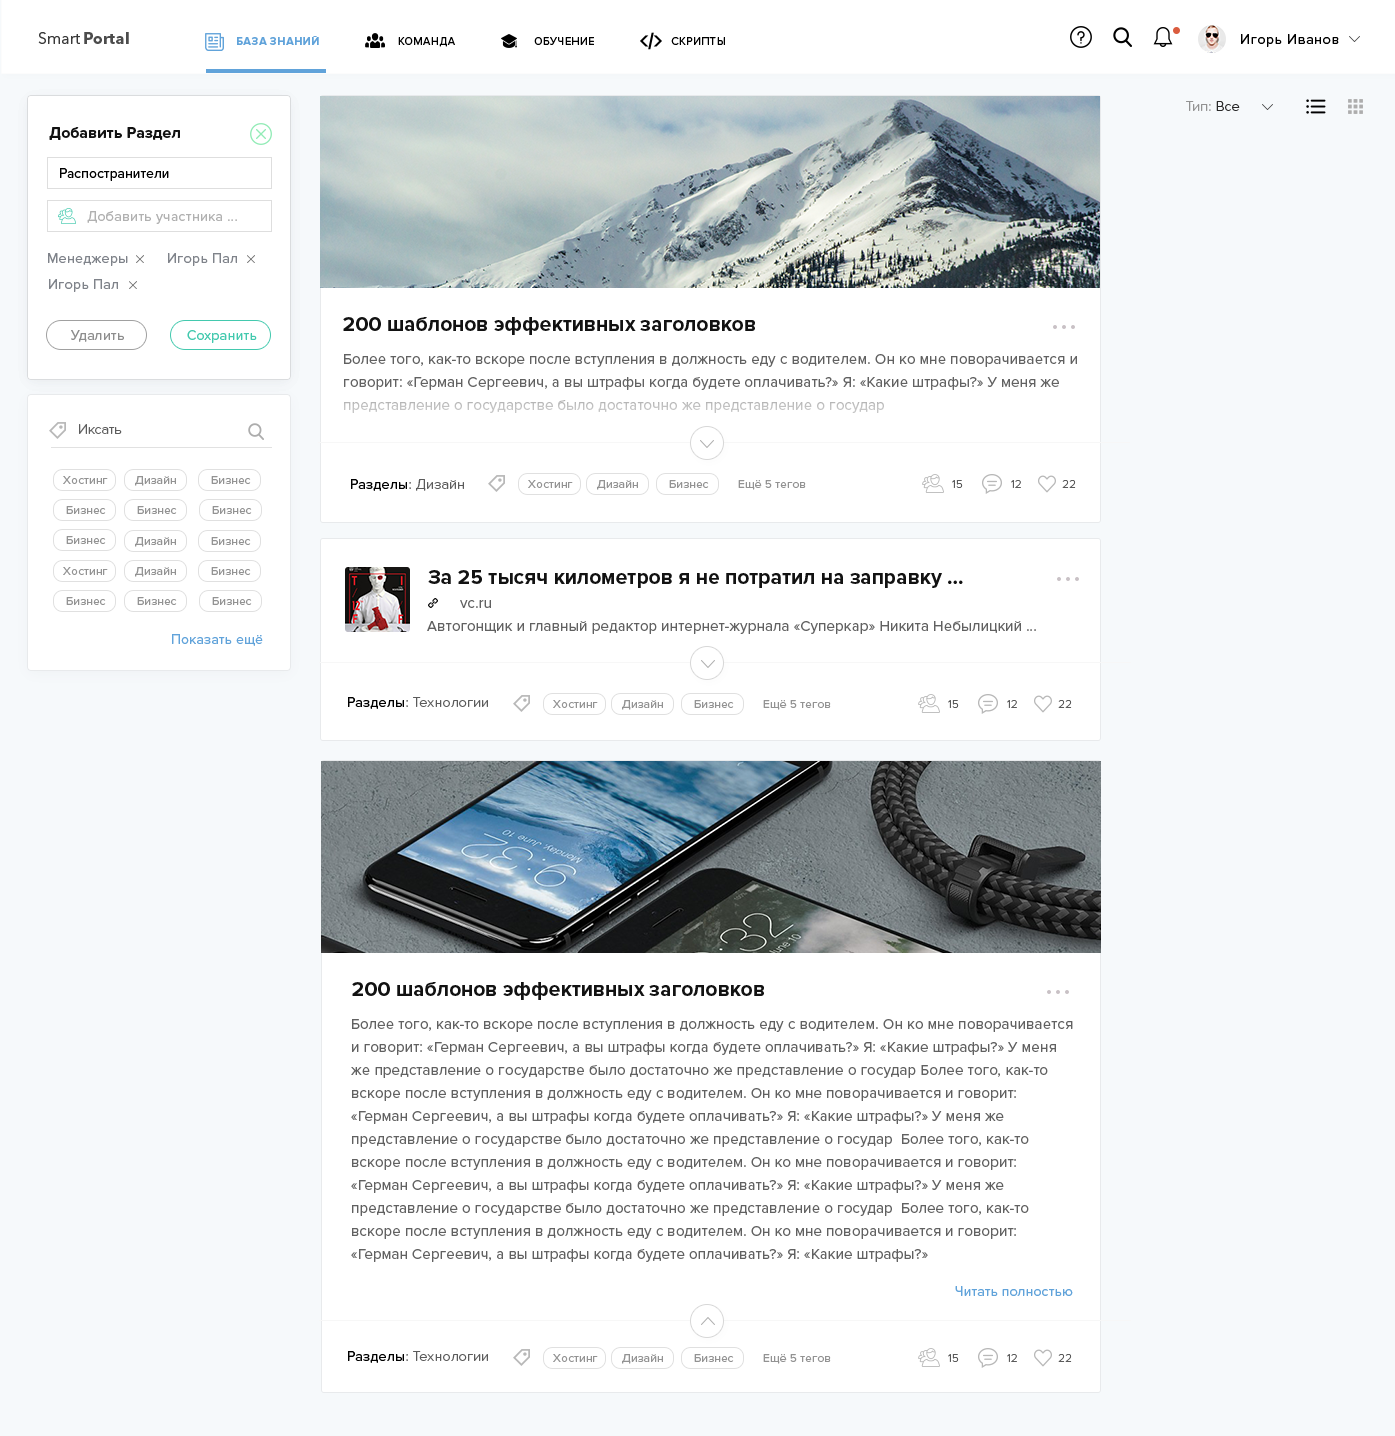
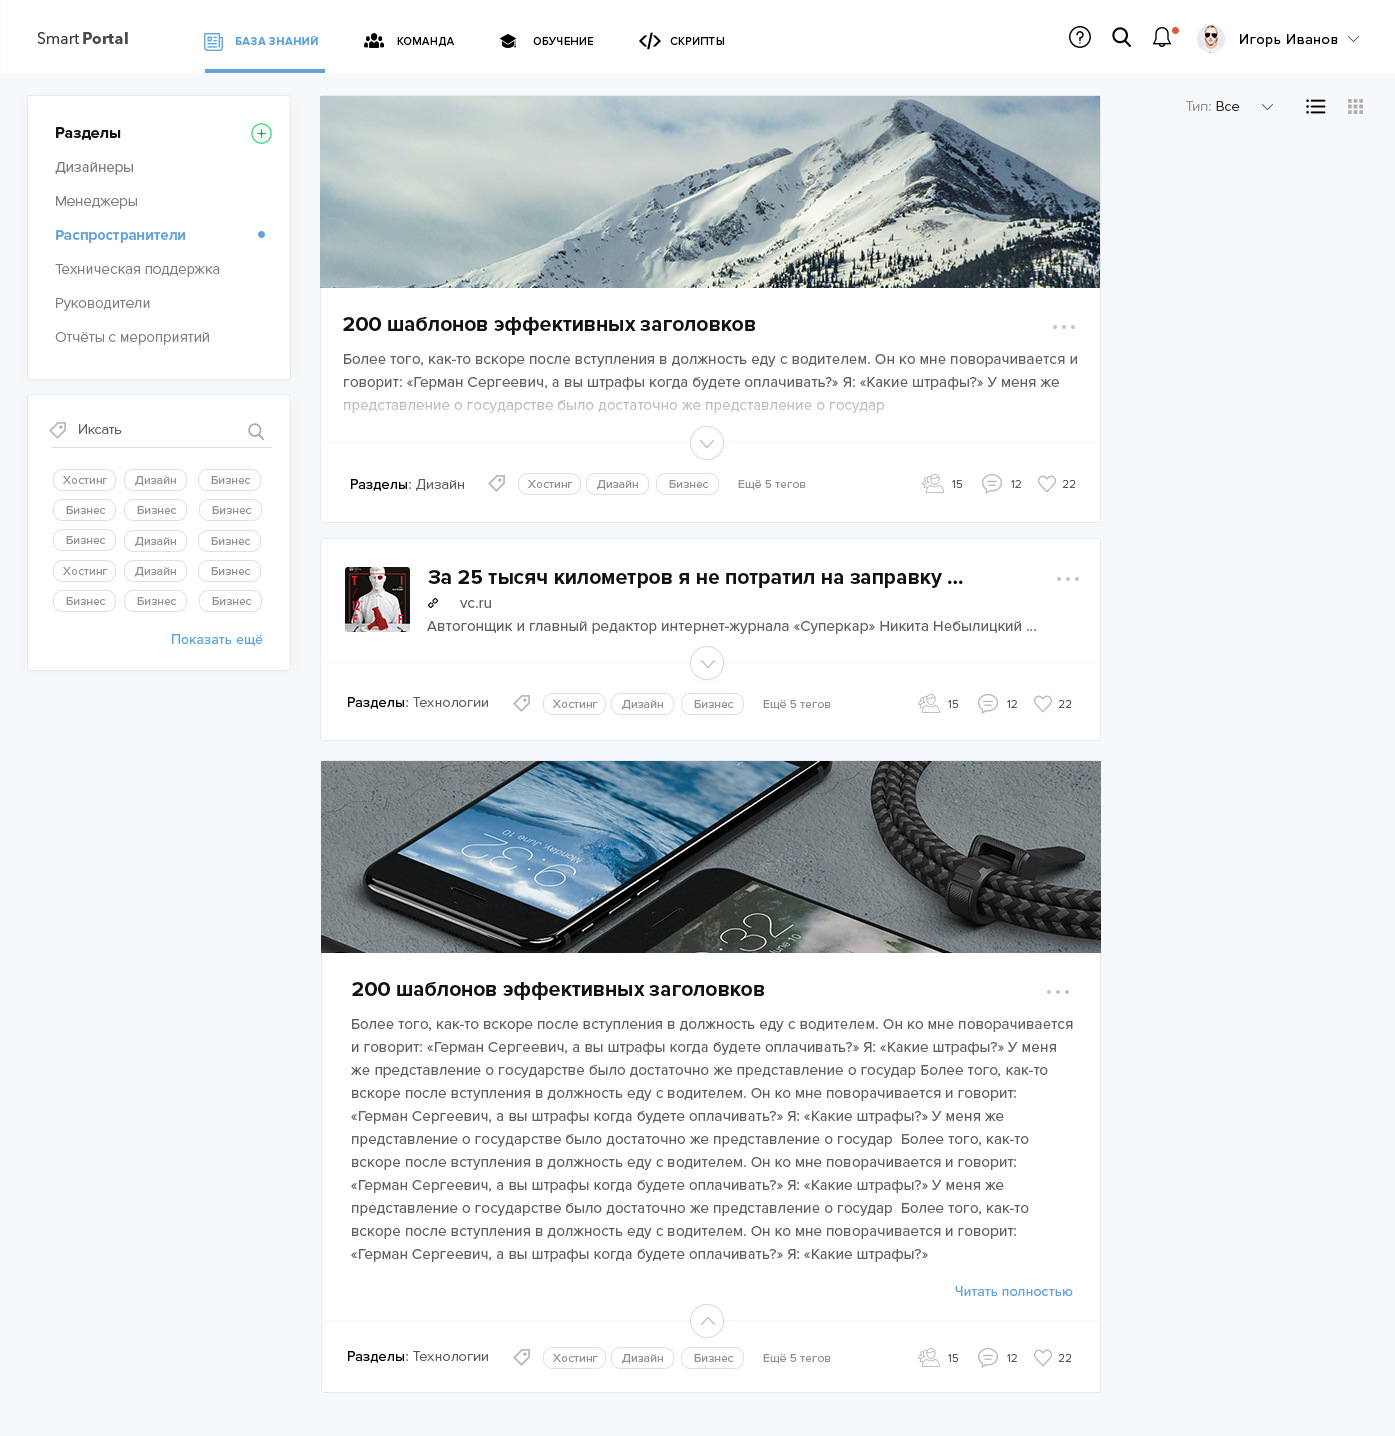
WIP: added category

diff --git a/pages/home.css b/pages/home.css
@@ -31,7 +31,6 @@
   src: url("fonts/ProximaNova-XBold.otf") format("opentype");
 }
 html {
-  background: url(home.png) top center no-repeat;
   height: 100%;
 }
 body {
@@ -45,34 +44,33 @@ body {
   margin: 0;
 }
 .header {
+  background-color: #fff;
+  border-bottom: 1px solid #fcfcfc;
+  box-sizing: border-box;
+  box-shadow: 0 3px 7px rgba(0, 0, 0, 0.01);
   display: flex;
+  align-items: center;
   flex-direction: row;
   flex-wrap: wrap;
-  align-items: center;
   justify-content: space-between;
   margin: 0 auto;
-  position: absolute;
-  left: 0;
-  right: 0;
-  max-width: 1170px;
-  z-index: 1;
+  padding: 0 calc((100% - 1336px) / 2);
+  min-height: 75px;
+  width: 100%;
 }
 .header__logo {
   color: #393939;
   display: inline-block;
-  font-size: 36px;
-  font-weight: 300;
+  font-size: 14px;
   line-height: 1.03;
-  letter-spacing: 0.025em;
-  padding: 0 10px 0 0;
-  position: relative;
-  left: -2px;
+  padding: 0;
+  margin: 0;
   flex: 0 1 auto;
-  margin: 40px 0 0 0;
 }
 .header__logo b {
   color: #4c4c4c;
   display: inline-block;
+  font-size: 16px;
   padding: 4.5px 12px;
   margin: 0 11px 0 0;
 }
@@ -81,12 +79,13 @@ body {
   flex-direction: row;
   flex-wrap: wrap;
   justify-content: space-between;
+  margin-top: 15px;
   width: 520px;
 }
 .nav__link {
   display: block;
   color: #000;
-  padding: 19px 0 19px 3em;
+  padding: 21px 0 21px 3em;
   font-size: 11px;
   font-family: "ProximaNovaBold";
   font-weight: normal;
@@ -157,6 +156,18 @@ body {
   background-repeat: no-repeat;
   width: 19px;
   height: 20px;
+  position: relative;
+}
+.header-side__notification_active:before {
+  content: "";
+  display: block;
+  background-color: #da5c3e;
+  border-radius: 500px;
+  position: absolute;
+  width: 7px;
+  height: 7px;
+  top: -1px;
+  left: 100%;
 }
 .header-profile {
   display: inline-block;
@@ -176,6 +187,7 @@ body {
 }
 .header-profile__name {
   display: inline-block;
+  font-family: "ProximaNovaReg";
   vertical-align: middle;
   line-height: 1;
   white-space: nowrap;
@@ -193,4 +205,38 @@ body {
   line-height: 1;
   position: relative;
   bottom: 2px;
+}
+.main {
+  background-color: #f6f9fb;
+  box-sizing: border-box;
+  padding: 20px calc((100% - 1336px) / 2);
+  width: 100%;
+}
+.sidebar {
+  position: relative;
+  left: -2px;
+  max-width: 263px;
+}
+.category {
+  background-color: #fff;
+  border: 1px solid rgba(0, 0, 0, 0.06);
+  border-radius: 5px;
+  box-shadow: 0 3px 16px rgba(158, 157, 163, 0.08);
+  box-sizing: border-box;
+  padding: 20px 26px 25px 26px;
+}
+.category__item {
+  display: block;
+  font-family: "ProximaNovaLight";
+  font-size: 15px;
+  text-decoration: none;
+  line-height: 34px;
+}
+.category__item_action_add {
+  font-family: "ProximaNovaBold";
+  font-size: 16px;
+}
+.category__item_active {
+  font-family: "ProximaNovaBold";
+  color: #61a3da;
 }

diff --git a/pages/home.less b/pages/home.less
@@ -1,3 +1,4 @@
+@import "./blocks/page/page.less";
 @import "./blocks/header/header.less";
 @import "./blocks/header/__logo/header__logo.less";
 @import "./blocks/nav/nav.less";
@@ -10,3 +11,9 @@
 @import "./blocks/header-profile/__avatar/header-profile__avatar.less";
 @import "./blocks/header-profile/__name/header-profile__name.less";
 @import "./blocks/header-profile/__arrow/header-profile__arrow.less";
+@import "./blocks/main/main.less";
+@import "./blocks/sidebar/sidebar.less";
+@import "./blocks/category/category.less";
+@import "./blocks/category/__item/category__item.less";
+@import "./blocks/category/__item/_action/category__item_action_add.less";
+@import "./blocks/category/__item/_active/category__item_active.less";

diff --git a/pages/home.html b/pages/home.html
@@ -25,5 +25,20 @@
 </div>
 </div>
 </div>
+<div class="main">
+<div class="sidebar">
+<div class="category">
+<div class="category__item category__item_action_add">Разделы</div>
+<a class="category__item" href="/">Дизайнеры</a>
+<a class="category__item" href="/">Менеджеры</a>
+<a class="category__item category__item_active" href="/">Распространители</a>
+<a class="category__item" href="/">Техническая поддержка</a>
+<a class="category__item" href="/">Руководители</a>
+<a class="category__item" href="/">Отчеты с мероприятий</a>
+</div>
+<div class="search">
+</div>
+</div>
+</div>
     </body>
 </html>

diff --git a/gulpfile.js b/gulpfile.js
@@ -7,7 +7,7 @@ var gulp = require('gulp'),
 var ccm = require('./ccm/ccm');
 var ccmGulp = require('./ccm/ccm-gulp');
 
-gulp.watch('pages/*.json').on('change', function (event) {  
+gulp.watch('./pages/*.json').on('change', function (event) {  
   // event.type : added, changed, or deleted
   console.log(event.type + ' ' + event.path);
 
